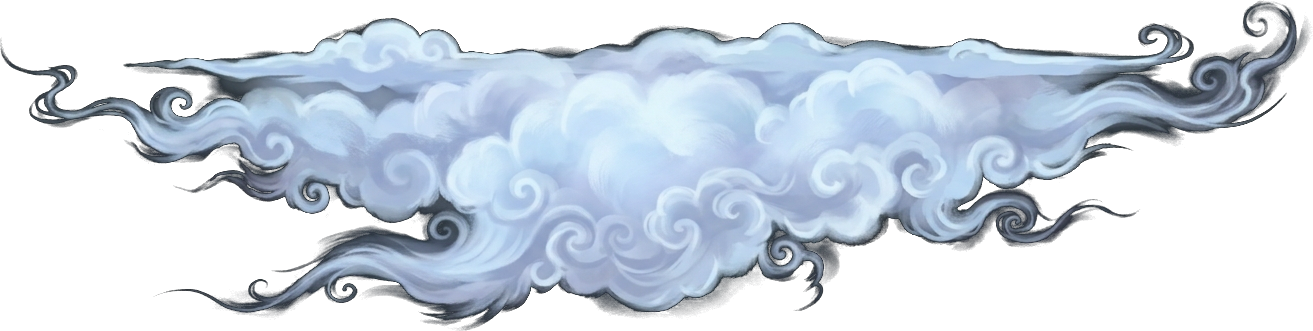
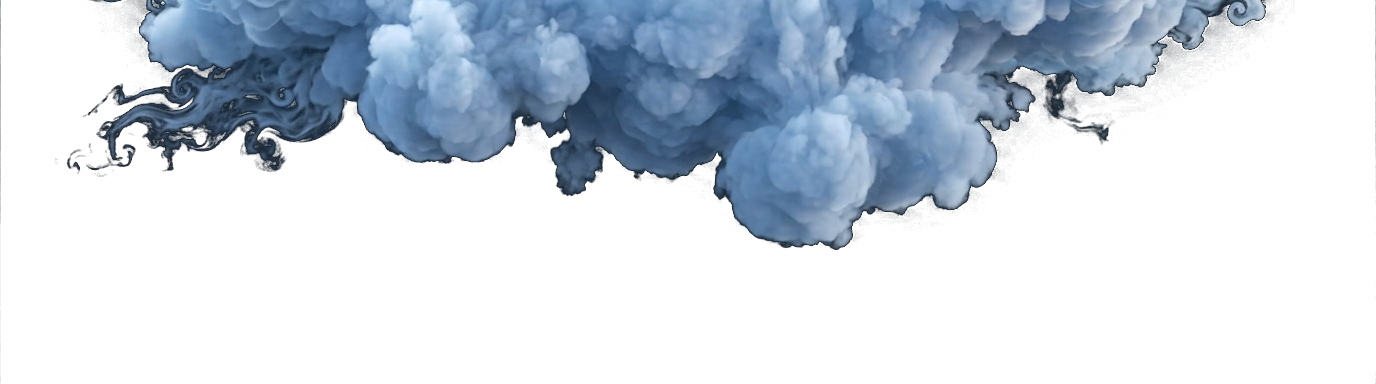
fix(web): cloud shelf v2 — fluffier bottom edge, cropped to cloud area
Regenerated with flat top + puffy irregular bottom. Cropped to
bottom 50% for fluffy part only. cover+top to show billowing edge.
56px height, extends 24px beyond bubble.

diff --git a/packages/web/src/index.css b/packages/web/src/index.css
@@ -522,12 +522,13 @@ body,
 /* Cloud shelf + seal as real DOM elements */
 .cloud-shelf-decor {
   position: absolute;
-  bottom: -20px;
-  left: -20px;
-  right: -20px;
-  width: calc(100% + 40px);
-  height: 50px;
-  object-fit: fill;
+  bottom: -28px;
+  left: -24px;
+  right: -24px;
+  width: calc(100% + 48px);
+  height: 56px;
+  object-fit: cover;
+  object-position: top center;
   opacity: 0.3;
   pointer-events: none;
 }
